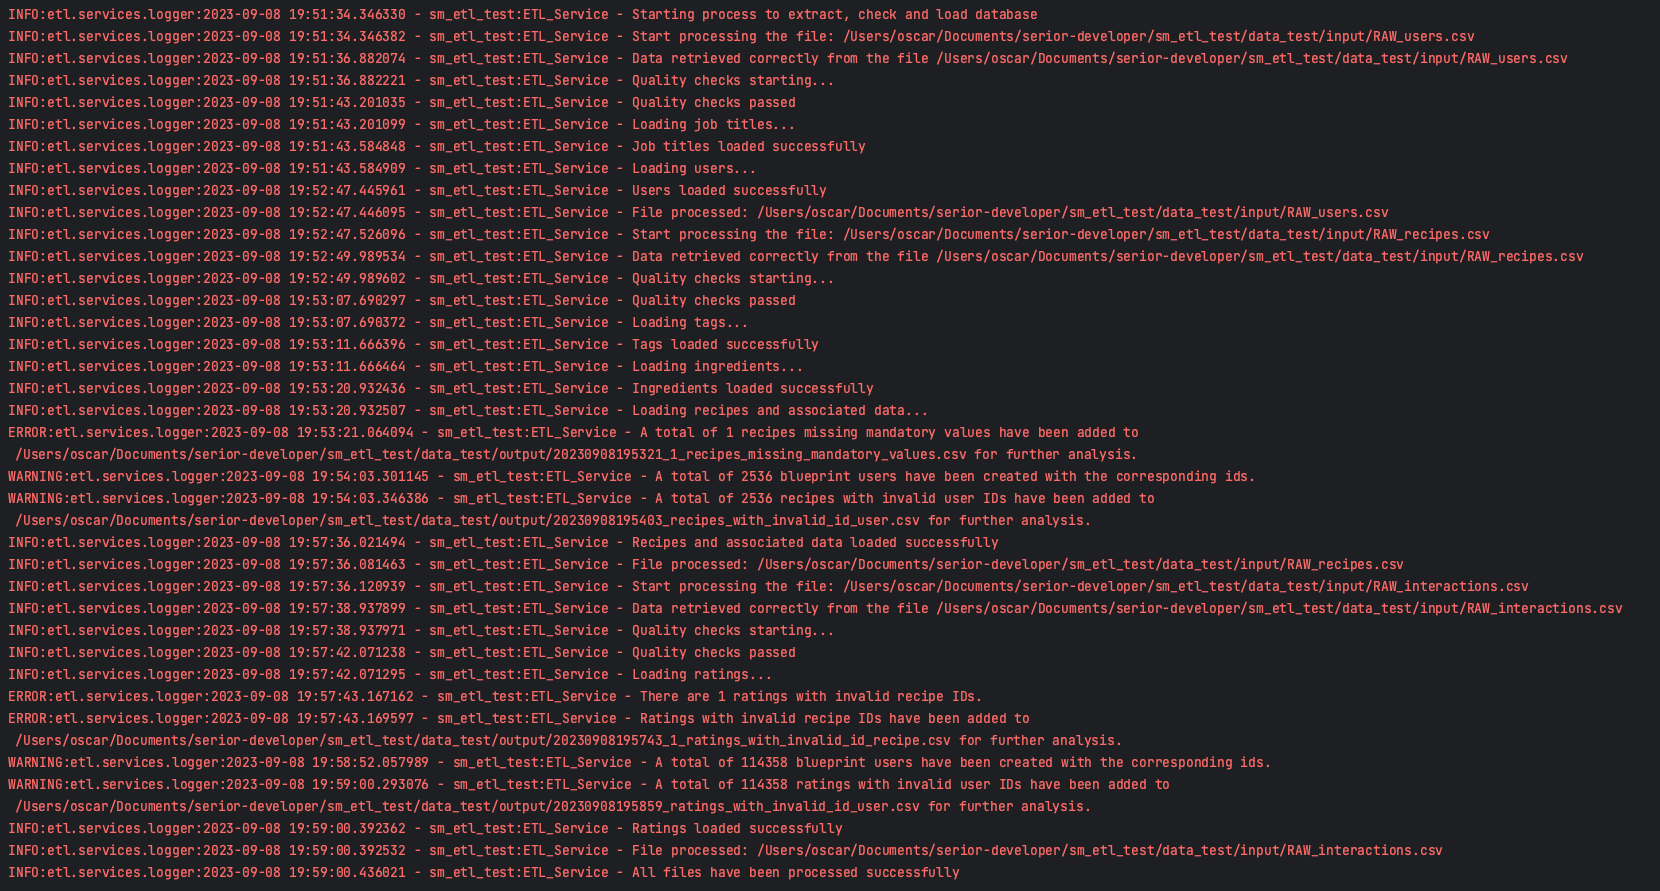
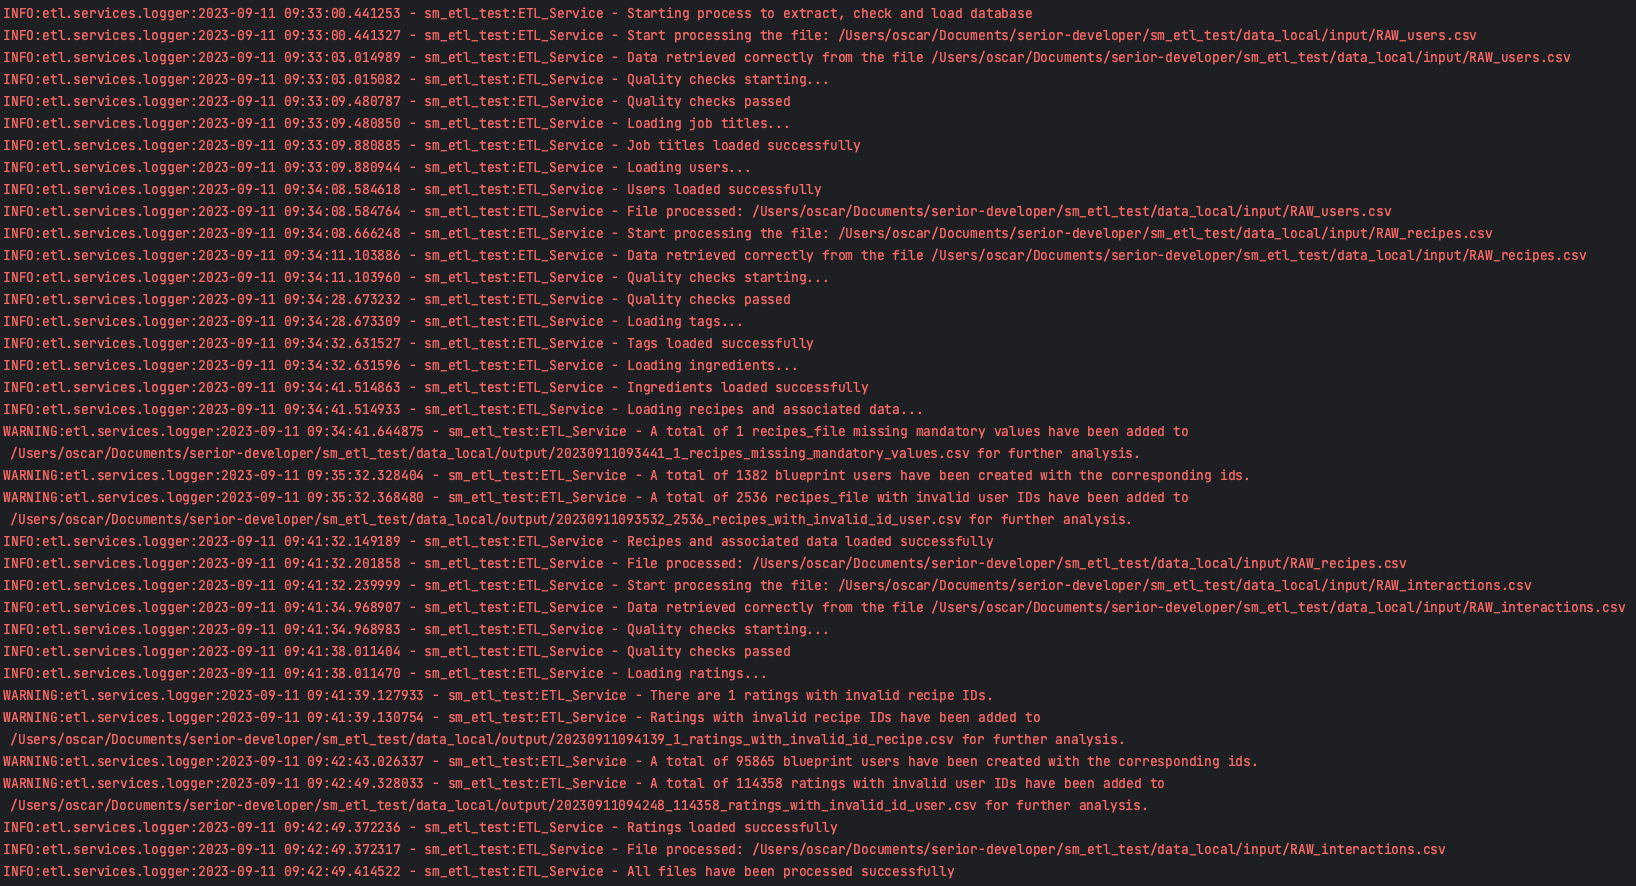
Fix logs related with blueprint users

Changed region(s): [[0.0, 0.0, 0.9976, 1.0]]

diff --git a/etl/process_file/recipes_file/recipe_repository.py b/etl/process_file/recipes_file/recipe_repository.py
@@ -86,8 +86,9 @@ def _handle_recipes_with_invalid_id_user(db_session, recipes_df, existing_user_i
     # Check if there are invalid recipes_file before proceeding with operations
     if not invalid_recipes_df.empty:
         # Insert placeholder users and upsert data for invalid recipes_file
+        new_placeholder_users = set(invalid_recipes_df["id_user"])
         insert_placeholder_users_into_db(
-            db_session=db_session, new_entries=set(invalid_recipes_df["id_user"])
+            db_session=db_session, new_entries=new_placeholder_users
         )
 
         # Insert valid recipe entries after creating the placeholder users
@@ -96,7 +97,7 @@ def _handle_recipes_with_invalid_id_user(db_session, recipes_df, existing_user_i
             db_session=db_session, model=Recipe, new_entries=valid_recipe_entries
         )
         Logger.warning(
-            message=f"A total of {len(invalid_recipes_df)} blueprint users have been created with the corresponding ids."
+            message=f"A total of {len(new_placeholder_users)} blueprint users have been created with the corresponding ids."
         )
 
         # Save the DataFrame to a CSV file with a timestamped filename

diff --git a/etl/process_file/interactions_file/rating_repository.py b/etl/process_file/interactions_file/rating_repository.py
@@ -85,11 +85,12 @@ def _handle_ratings_with_invalid_id_user(db_session, ratings_df, existing_user_i
     # Check if there are invalid ratings before proceeding with operations
     if invalid_ratings_count:
         # Insert placeholder users and upsert data for invalid ratings
+        new_placeholder_users = set(invalid_ratings_df["id_user"])
         insert_placeholder_users_into_db(
-            db_session=db_session, new_entries=set(invalid_ratings_df["id_user"])
+            db_session=db_session, new_entries=new_placeholder_users
         )
         Logger.warning(
-            message=f"A total of {invalid_ratings_count} blueprint users have been created with the corresponding ids."
+            message=f"A total of {len(new_placeholder_users)} blueprint users have been created with the corresponding ids."
         )
 
         # Insert valid ratings entries after creating the placeholder users
